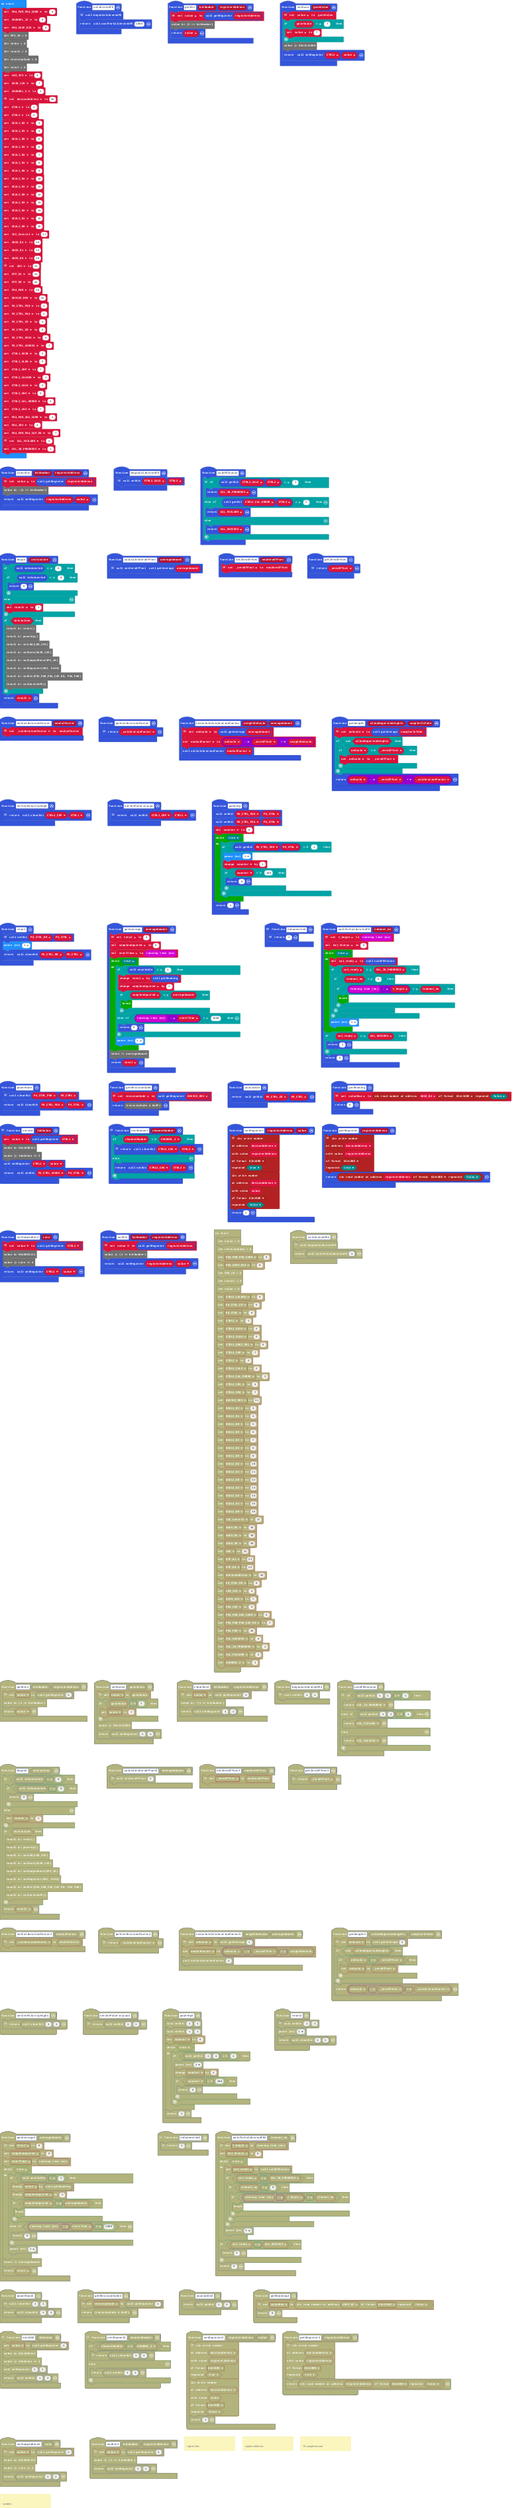
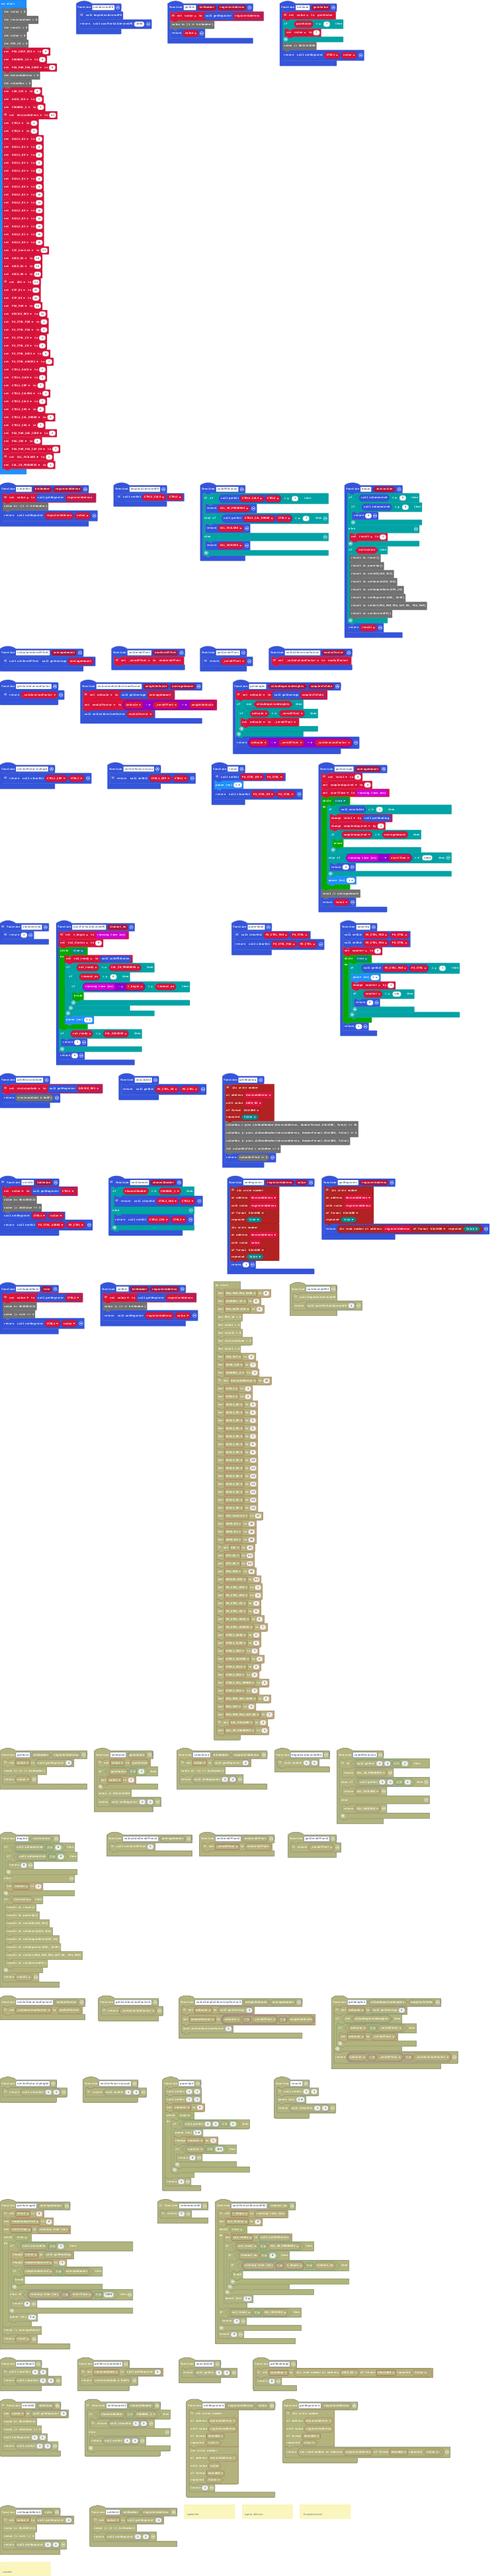
done getReading

Changed region(s): [[0.0, 0.0, 0.9774, 1.0], [0.2749, 0.0, 0.7331, 0.0312], [0.1527, 0.0, 0.2444, 0.0312]]

diff --git a/main.ts b/main.ts
@@ -39,7 +39,7 @@ function setZeroOffset (newZeroOffset: number) {
 }
 // line 199
 function setLDO (ldoValue: number) {
-    let PU_CTRL_AVDDS = 0
+    let PU_CTRL_AVDDS: null = null
     value = getRegister(CTRL1)
     value &= 0b11000111
 value |= ldoValue << 3
@@ -112,7 +112,7 @@ function powerUp () {
     setBit(PU_CTRL_PUA, PU_CTRL)
     counter = 0
     while (true) {
-        let PU_CTRL_PUR = 0
+        let PU_CTRL_PUR: null = null
         if (getBit(PU_CTRL_PUR, PU_CTRL) == 1) {
             basic.pause(1)
             counter += 1
@@ -149,7 +149,7 @@ function setCalibrationFactor (newCalFactor: number) {
 }
 // line 155
 function setChannel (channelNumber: number) {
-    let CHANNEL_1 = 0
+    let CHANNEL_1: null = null
     if (channelNumber == CHANNEL_1) {
         // Channel 1 default
         return clearBit(CTRL2_CHS, CTRL2)
@@ -181,13 +181,21 @@ function powerDown () {
     return clearBit(PU_CTRL_PUA, PU_CTRL)
 }
 function getReading () {
-    // line 236
-    // Read 24 bits into 32 bit variable
-    valueRaw = pins.i2cReadNumber(ADCO_B2, NumberFormat.UInt32BE, false)
-    return 0
+    // Send register address
+    pins.i2cWriteNumber(
+    deviceAddress,
+    ADCO_B2,
+    NumberFormat.UInt8BE,
+    false
+    )
+    valueRaw = pins.i2cReadNumber(deviceAddress, NumberFormat.UInt8BE, false) << 16
+valueRaw |= pins.i2cReadNumber(deviceAddress, NumberFormat.UInt8BE, false) << 8
+valueRaw |= pins.i2cReadNumber(deviceAddress, NumberFormat.UInt8BE, false)
+let valueShifted = valueRaw << 8
+return valueShifted >> 8
 }
 function reset () {
-    let PU_CTRL_RR = 0
+    let PU_CTRL_RR: null = null
     // line 190
     setBit(PU_CTRL_RR, PU_CTRL)
     basic.pause(1)
@@ -259,41 +267,41 @@ function waitForCalibrateAFE (timeout_ms: number) {
 /**
  * register bits
  */
-let cal_ready = 0
-let Cal_Status = 0
-let t_begin = 0
-let newCalFactor = 0
-let valueRaw = 0
-let startTime = 0
-let samplesAquired = 0
-let counter = 0
-let CAL_SUCCESS = 0
-let _calibrationFactor = 0
-let onScale = 0
-let PU_CTRL = 0
-let _zeroOffset = 0
-let CAL_IN_PROGRESS = 0
-let CAL_FAILURE = 0
-let CTRL2_CHS = 0
-let CTRL2_CAL_ERROR = 0
-let CTRL2_CALS = 0
-let CTRL1_CRP = 0
-let PU_CTRL_CR = 0
-let PU_CTRL_PUA = 0
-let PU_CTRL_PUD = 0
-let DEVICE_REV = 0
-let ADCO_B2 = 0
-let CTRL2 = 0
-let CTRL1 = 0
-let deviceAddress = 0
-let PGA_PWR_PGA_CURR = 0
-let CHANNEL_12 = 0
-let PGA_CHIP_DIS = 0
-let SPS_10 = 0
-let value = 0
-let result = 0
-let revisionCode = 0
+let cal_ready: null = null
+let Cal_Status: null = null
+let t_begin: null = null
+let newCalFactor: null = null
+let startTime: null = null
+let samplesAquired: null = null
+let counter: null = null
+let CAL_SUCCESS: null = null
+let _calibrationFactor: null = null
+let onScale: null = null
+let PU_CTRL: null = null
+let _zeroOffset: null = null
+let CAL_IN_PROGRESS: null = null
+let CAL_FAILURE: null = null
+let CTRL2_CHS: null = null
+let CTRL2_CAL_ERROR: null = null
+let CTRL2_CALS: null = null
+let CTRL1_CRP: null = null
+let PU_CTRL_CR: null = null
+let PU_CTRL_PUA: null = null
+let PU_CTRL_PUD: null = null
+let DEVICE_REV: null = null
+let ADCO_B2: null = null
+let CTRL2: null = null
+let CTRL1: null = null
 let total = 0
+let revisionCode = 0
+let result = 0
+let value = 0
+let SPS_10 = 0
+let PGA_CHIP_DIS = 0
+let CHANNEL_12 = 0
+let PGA_PWR_PGA_CURR = 0
+let deviceAddress = 0
+let valueRaw = 0
 let LDO_3V3 = 4
 let GAIN_128 = 7
 let CHANNEL_2 = 1
